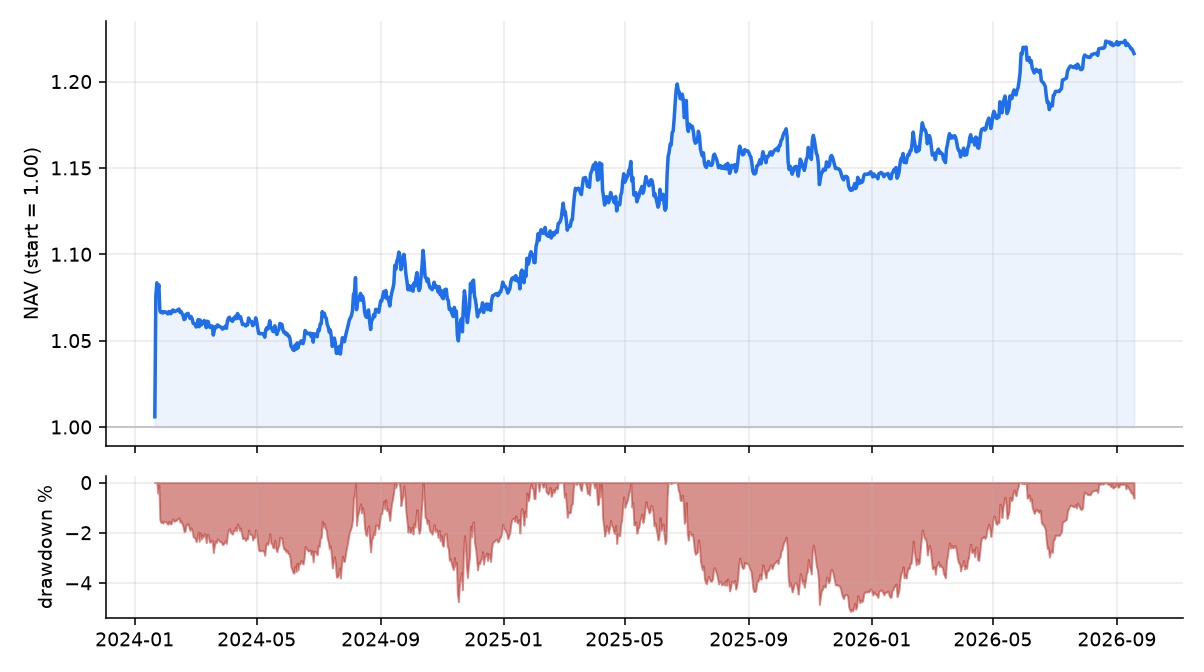
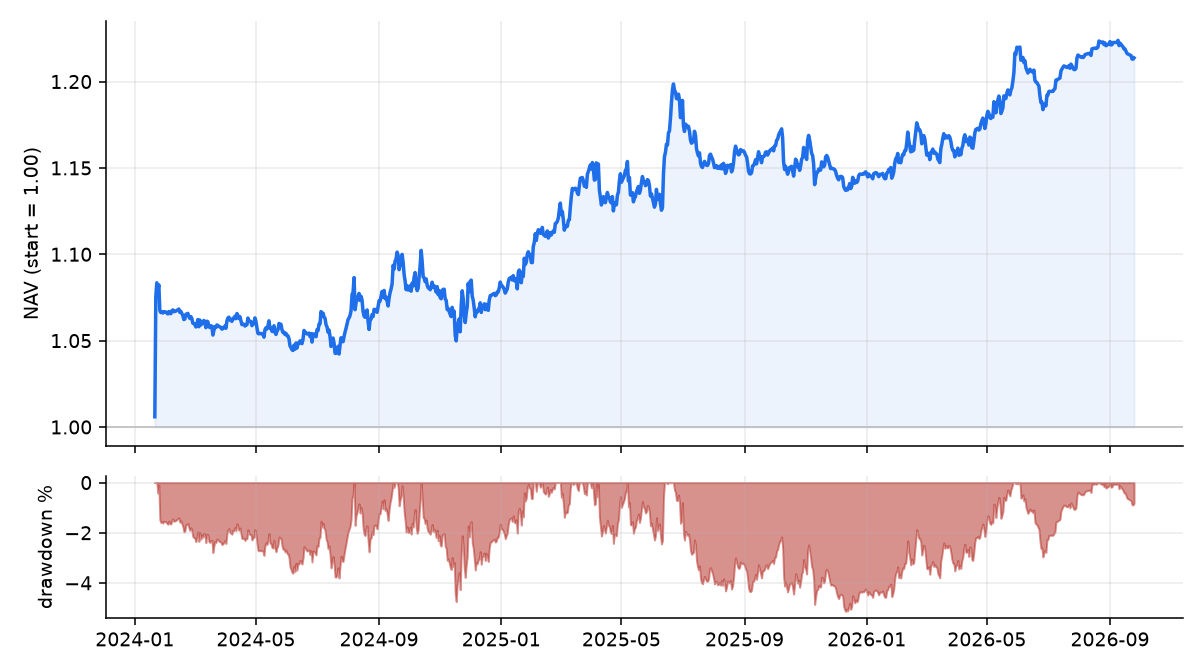
live: NAV update 2026-10-05T09:18Z

diff --git a/index.html b/index.html
@@ -3,7 +3,7 @@
 <title>Alpha Research — Live Book</title>
 <meta name="description" content="Live paper-traded NAV of the Alpha Research diversified risk-premium book: crypto carry/trend + FX carry/value, risk-parity, vol-targeted, net of costs. Updated daily.">
 <meta property="og:title" content="Alpha Research — Live Book">
-<meta property="og:description" content="Paper-traded NAV of the diversified risk-premium book, updated daily. Sharpe 0.88, NAV 1.216 since 2024-01-01.">
+<meta property="og:description" content="Paper-traded NAV of the diversified risk-premium book, updated daily. Sharpe 0.87, NAV 1.214 since 2024-01-01.">
 <meta property="og:type" content="website"><meta property="og:url" content="https://alpha.vineai.tech/">
 <meta property="og:image" content="https://alpha.vineai.tech/nav.png">
 <meta property="og:image:width" content="1204"><meta property="og:image:height" content="672">
@@ -36,18 +36,18 @@ footer{margin-top:46px;padding-top:16px;border-top:1px solid var(--rule);color:v
 <header>
   <div class="tag">Alpha Research · Live Book</div>
   <h1>The diversified risk-premium book, paper-traded live</h1>
-  <p class="sub">Inception 2024-01-01 · data through 2026-09-18 · updated 2026-10-04 09:18:00 UTC<br>
+  <p class="sub">Inception 2024-01-01 · data through 2026-09-25 · updated 2026-10-05 09:18:00 UTC<br>
   The capstone of the <a href="https://bryanvine.github.io/alpha-research/">Alpha Research</a> series
   (<a href="https://bryanvine.github.io/alpha-research/paper7.html">Paper 7</a>), tracked forward as a paper portfolio.</p>
 </header>
 
-<div class="cards"><div class="card"><div class="k">NAV</div><div class="v pos">1.216</div></div><div class="card"><div class="k">Total return</div><div class="v pos">+21.6%</div></div><div class="card"><div class="k">Annualized</div><div class="v pos">+5.3%</div></div><div class="card"><div class="k">Sharpe</div><div class="v pos">0.88</div></div><div class="card"><div class="k">Volatility</div><div class="v mut">6.1%</div></div><div class="card"><div class="k">Max drawdown</div><div class="v neg">-5.1%</div></div></div>
+<div class="cards"><div class="card"><div class="k">NAV</div><div class="v pos">1.214</div></div><div class="card"><div class="k">Total return</div><div class="v pos">+21.4%</div></div><div class="card"><div class="k">Annualized</div><div class="v pos">+5.2%</div></div><div class="card"><div class="k">Sharpe</div><div class="v pos">0.87</div></div><div class="card"><div class="k">Volatility</div><div class="v mut">6.1%</div></div><div class="card"><div class="k">Max drawdown</div><div class="v neg">-5.1%</div></div></div>
 
 <figure><img src="nav.png" alt="Live NAV equity curve and drawdown"></figure>
 
 <h2>Current target weights &amp; sleeve performance</h2>
 <table><thead><tr><th>Sleeve</th><th>Weight</th><th>Sharpe (since inception)</th></tr></thead>
-<tbody><tr><td>FX carry</td><td>44.1%</td><td class="pos">+0.75</td></tr><tr><td>FX value</td><td>42.7%</td><td class="neg">-0.75</td></tr><tr><td>Crypto funding carry</td><td>6.9%</td><td class="pos">+0.96</td></tr><tr><td>Crypto trend</td><td>6.3%</td><td class="pos">+0.18</td></tr></tbody></table>
+<tbody><tr><td>FX carry</td><td>42.8%</td><td class="pos">+0.74</td></tr><tr><td>FX value</td><td>42.3%</td><td class="neg">-0.76</td></tr><tr><td>Crypto funding carry</td><td>8.6%</td><td class="pos">+0.96</td></tr><tr><td>Crypto trend</td><td>6.2%</td><td class="pos">+0.18</td></tr></tbody></table>
 
 <div class="note"><strong>What this is.</strong> A risk-parity, 10%/yr-vol-targeted combination of the
 daily-tradable survivors from the research program — crypto funding carry, crypto trend, and G10 FX
